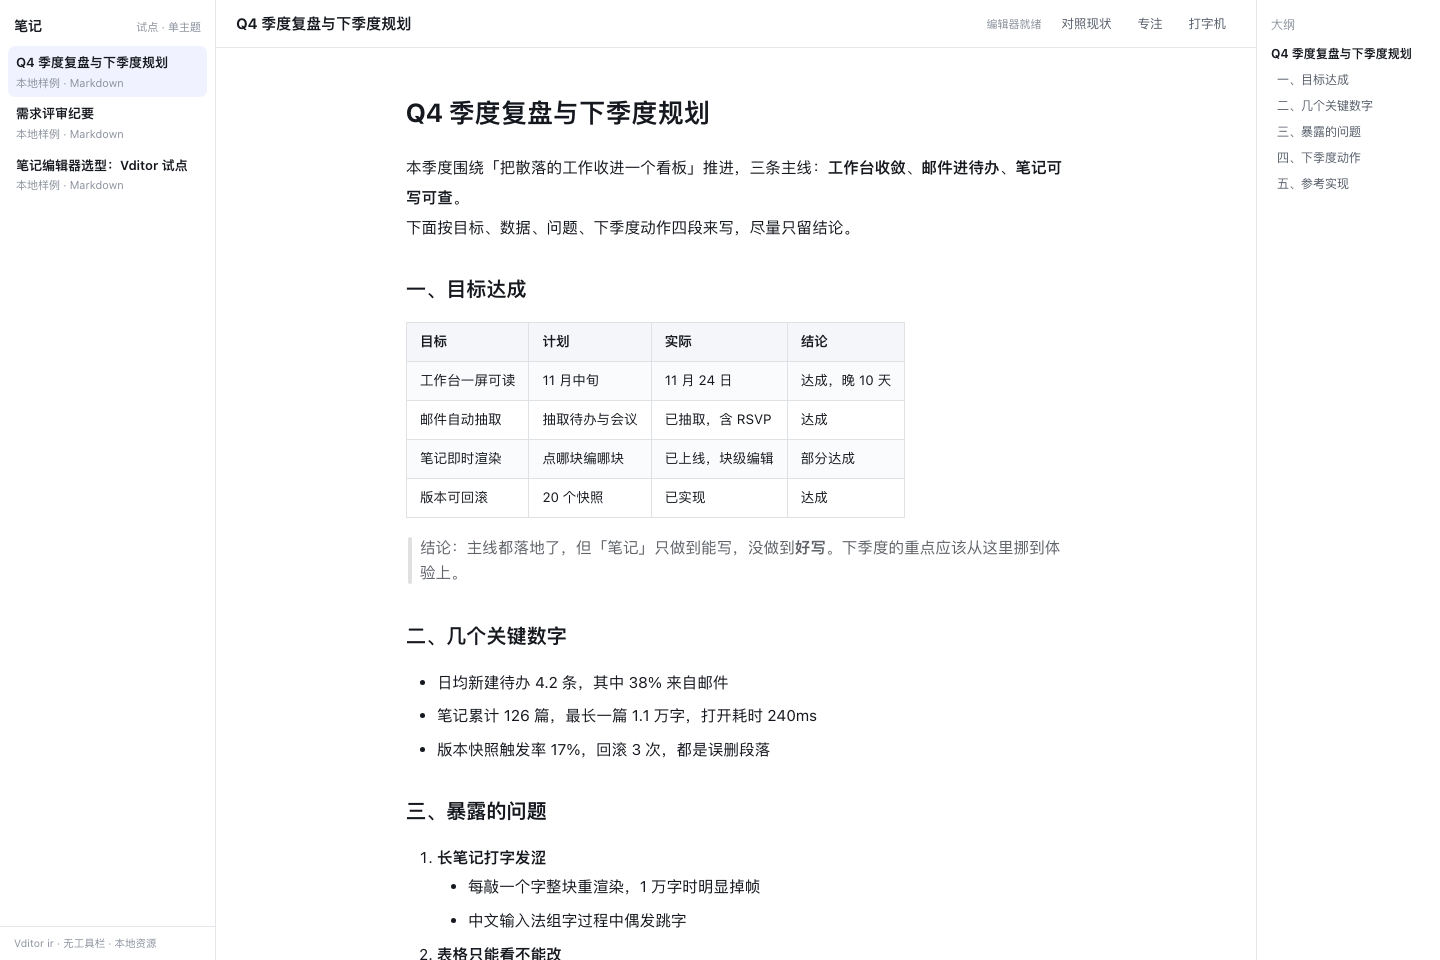
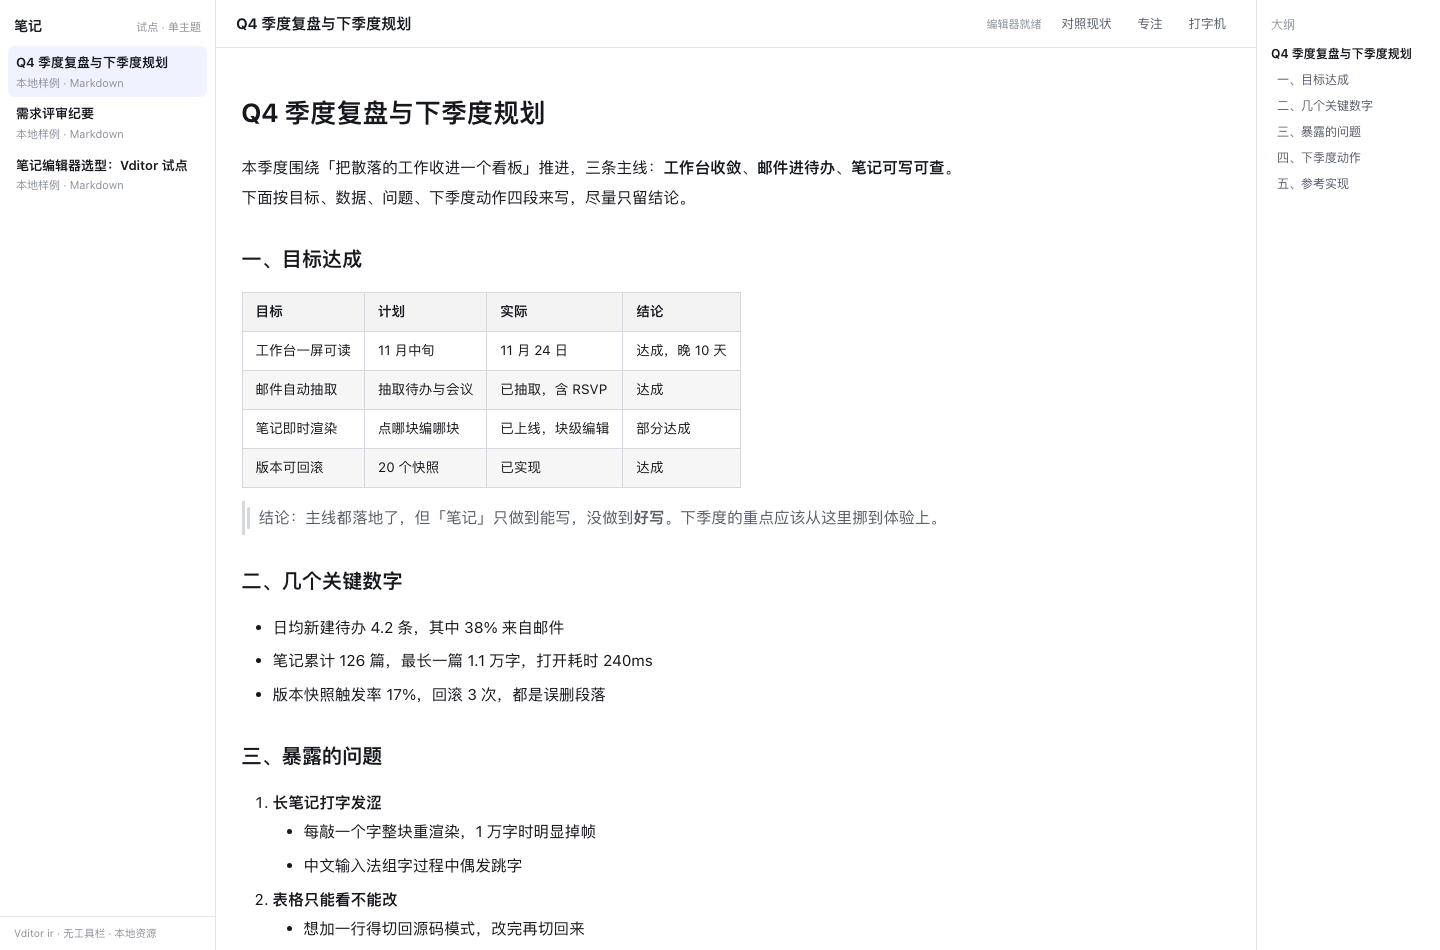
fix: 深色模式正文/表格/代码配色，v3.38.0

diff --git a/share-desktop/plugin/lib/client.js b/share-desktop/plugin/lib/client.js
@@ -2546,21 +2546,45 @@ window.__ModuleLoader__.load({
 			// 全屏时正文跟着窗口放大：窄屏保底 720，宽屏按 72vw 长，最多 1040；始终居中
 			"#tw-typora .vditor-ir{display:block!important;width:100%!important}",
 			"#tw-typora .vditor-ir>.vditor-reset{width:auto!important;max-width:clamp(720px,72vw,1040px)!important;margin:0 auto!important}",
-			"#tw-typora .vditor-reset{padding:16px 10px 120px!important;font-size:14.5px;line-height:1.9;word-break:break-word}",
+				"#tw-typora .vditor-reset{padding:16px 10px 120px!important;font-size:14.5px;line-height:1.9;word-break:break-word;font-family:" + FONT + "}",
 			// Vditor 在标题左侧挂 H1/H2 层级角标，还额外给标题描一条下边框；Typora 两样都没有
 			"#tw-typora .vditor-ir .vditor-reset>h1:before,#tw-typora .vditor-ir .vditor-reset>h2:before,#tw-typora .vditor-ir .vditor-reset>h3:before,#tw-typora .vditor-ir .vditor-reset>h4:before,#tw-typora .vditor-ir .vditor-reset>h5:before,#tw-typora .vditor-ir .vditor-reset>h6:before{content:none!important;display:none!important}",
 			"#tw-typora .vditor-ir .vditor-reset>h1,#tw-typora .vditor-ir .vditor-reset>h2,#tw-typora .vditor-ir .vditor-reset>h3,#tw-typora .vditor-ir .vditor-reset>h4,#tw-typora .vditor-ir .vditor-reset>h5,#tw-typora .vditor-ir .vditor-reset>h6{border:0!important}",
 			// 隐藏的源码也塞在 pre 里，别让它 inheriting 到可见的边框
 			"#tw-typora .vditor-ir .vditor-ir__marker,#tw-typora .vditor-ir .vditor-ir__marker--pre{border:0!important;background:none!important;padding:0!important;margin:0!important}",
-			"#tw-typora .vditor-ir__marker{color:var(--dsw-alias-label-tertiary,#9aa0aa)!important}",
+			"#tw-typora .vditor-ir__marker{color:var(--tw-muted,#8b919c)!important}",
+				"#tw-typora .vditor-ir pre.vditor-reset:empty::before{color:var(--tw-muted,#8b919c)!important}",
 			// 公式块：Typora 是无底色、无边框的裸排版，只在光标进入时露出 $$
 			"#tw-typora .vditor-ir .vditor-reset div[data-type="+"\"math-block\""+"]>pre.vditor-ir__preview{background:transparent!important;border:0!important;padding:10px 0!important;line-height:1.9}",
 			// 公式块里的空文本行会把行距撑开，行高归零后交给 preview 自己撑
 			"#tw-typora .vditor-ir .vditor-reset div[data-type="+"\"math-block\""+"]{line-height:0}",
 			"#tw-typora .vditor-ir .vditor-reset div[data-type="+"\"math-block\""+"] .katex-display{margin:0!important}",
+			// 深色模式：Vditor 的正文颜色来自它自己的"内容主题"（默认 light），跟宿主的深浅色无关，
+			// 于是深色下正文还是 #24292e 近黑、表格行还是 #fafbfc 白底——整篇几乎看不见。
+			// 这里不再依赖它的内容主题，正文一律改读插件的 --tw-* token，两种主题自动跟随。
+			"#tw-typora .vditor-reset{color:var(--tw-ink,#15181e)!important}",
+			"#tw-typora .vditor-reset h1,#tw-typora .vditor-reset h2,#tw-typora .vditor-reset h3,#tw-typora .vditor-reset h4,#tw-typora .vditor-reset h5,#tw-typora .vditor-reset h6,#tw-typora .vditor-reset strong,#tw-typora .vditor-reset b{color:var(--tw-ink,#15181e)!important}",
+			"#tw-typora .vditor-reset a,#tw-typora .vditor-ir__link{color:var(--tw-accent,#3370ff)!important}",
+			"#tw-typora .vditor-reset blockquote:not(.callout){color:var(--tw-ink-2,#565d69)!important}",
+			"#tw-typora .vditor-reset blockquote:not(.callout)::before{background-color:var(--tw-rule-2,#d5d8de)!important}",
+			"#tw-typora .vditor-reset hr{background-color:var(--tw-rule,#e4e6ea)!important}",
+			// 表格：行底、表头底、单元格描边全部换回 token，深色下不再出现白格格
+			"#tw-typora .vditor-reset table tr{background-color:transparent!important;border-top:1px solid var(--tw-rule-2,#d5d8de)!important}",
+			"#tw-typora .vditor-reset table tbody tr:nth-child(2n){background-color:color-mix(in srgb,var(--tw-ink,#15181e) 4%,transparent)!important}",
+			"#tw-typora .vditor-reset table td,#tw-typora .vditor-reset table th{border:1px solid var(--tw-rule-2,#d5d8de)!important}",
+			"#tw-typora .vditor-reset table th{background-color:color-mix(in srgb,var(--tw-ink,#15181e) 5%,transparent)!important}",
+			// 代码：行内底色与块底色都用文字色叠一层，深浅两边都成立；块里再交给 hljs 主题上色
+			"#tw-typora .vditor-reset code:not(.hljs):not(.highlight-chroma){color:var(--tw-ink,#15181e)!important;background-color:color-mix(in srgb,var(--tw-ink,#15181e) 7%,transparent)!important}",
+			"#tw-typora .vditor-reset pre{background-color:color-mix(in srgb,var(--tw-ink,#15181e) 5%,transparent)!important;border:1px solid var(--tw-rule,#e4e6ea)!important;border-radius:8px!important;padding:10px 12px!important}",
+			// 行内代码在 ir 下带 .hljs 类，hljs 主题会给它铺 #282c34；统一压回中性底，块内再透明
+			"#tw-typora .vditor-reset code.hljs{background-color:color-mix(in srgb,var(--tw-ink,#15181e) 8%,transparent)!important;color:var(--tw-ink,#15181e)!important;border-radius:4px;padding:2px 5px}",
+			"#tw-typora .vditor-reset pre>code,#tw-typora .vditor-reset pre>code.hljs{background:none!important;padding:0!important}",
+			"#tw-typora .vditor-reset kbd{color:var(--tw-ink,#15181e)!important;background-color:color-mix(in srgb,var(--tw-ink,#15181e) 8%,transparent)!important;border:1px solid var(--tw-rule,#e4e6ea)!important;box-shadow:none!important}",
 			// 任务列表复选框：跟插件里的 tw-check 同一个观感，不用系统原生小方块
-			"#tw-typora .vditor-ir .vditor-reset input[type="+"\"checkbox\""+"]{appearance:none;-webkit-appearance:none;width:14px;height:14px;margin:0 8px 0 0;border:1px solid var(--dsw-alias-border-l2,#d7dae1);border-radius:4px;background:transparent;vertical-align:-2px;cursor:pointer}",
+			"#tw-typora .vditor-ir .vditor-reset input[type="+"\"checkbox\""+"]{appearance:none;-webkit-appearance:none;width:14px;height:14px;margin:0 8px 0 0;border:1px solid var(--tw-rule-2,#d7dae1);border-radius:4px;background:transparent;vertical-align:-2px;cursor:pointer}",
 			"#tw-typora .vditor-ir .vditor-reset input[type="+"\"checkbox\""+"]:checked{background:var(--tw-accent,#3370ff);border-color:var(--tw-accent,#3370ff)}",
+			// 光标进到代码块时 Vditor 会给 pre 铺 --textarea-background-color（深色下是浅灰块），压掉
+			"#tw-typora .vditor-ir pre.vditor-reset:focus{background-color:color-mix(in srgb,var(--tw-ink,#15181e) 5%,transparent)!important}",
 			// 专注：只亮光标所在的那一块
 			"#tw-typora.tw-vd-focus .vditor-ir>.vditor-reset>*:not(.tw-active){opacity:.3}",
 			"#tw-typora .vditor-ir>.vditor-reset>*{transition:opacity .18s ease}"
@@ -2659,7 +2683,6 @@ window.__ModuleLoader__.load({
 							mode: "ir",
 							value: String(valueRef.current == null ? "" : valueRef.current),
 							height: "100%",
-							theme: dark ? "dark" : "classic",
 							icon: "ant",
 							toolbar: [],
 							counter: { enable: false },
@@ -2668,7 +2691,15 @@ window.__ModuleLoader__.load({
 							outline: { enable: false },
 							tab: "\t",
 							placeholder: "开始写…",
-							preview: { delay: 120, markdown: { sanitize: true, toc: false } },
+							// preview.theme.current 才是 Vditor 的"内容主题"（正文/表格/代码配色），
+							// theme 只管外壳；两者必须同步，否则深色下正文会按浅色那套排。
+							theme: dark ? "dark" : "classic",
+							preview: {
+								delay: 120,
+								theme: { current: dark ? "dark" : "light", path: VD_BASE + "/dist/css/content-theme" },
+								hljs: { style: dark ? "atom-one-dark" : "github", lineNumber: false },
+								markdown: { sanitize: true, toc: false }
+							},
 							input: (v) => { if (!pushRef.current && props.onChange) props.onChange(v); },
 							after: () => { if (alive) setReady(true); }
 						});

diff --git a/tidywork-plugin/lib/client.js b/tidywork-plugin/lib/client.js
@@ -2546,21 +2546,45 @@ window.__ModuleLoader__.load({
 			// 全屏时正文跟着窗口放大：窄屏保底 720，宽屏按 72vw 长，最多 1040；始终居中
 			"#tw-typora .vditor-ir{display:block!important;width:100%!important}",
 			"#tw-typora .vditor-ir>.vditor-reset{width:auto!important;max-width:clamp(720px,72vw,1040px)!important;margin:0 auto!important}",
-			"#tw-typora .vditor-reset{padding:16px 10px 120px!important;font-size:14.5px;line-height:1.9;word-break:break-word}",
+				"#tw-typora .vditor-reset{padding:16px 10px 120px!important;font-size:14.5px;line-height:1.9;word-break:break-word;font-family:" + FONT + "}",
 			// Vditor 在标题左侧挂 H1/H2 层级角标，还额外给标题描一条下边框；Typora 两样都没有
 			"#tw-typora .vditor-ir .vditor-reset>h1:before,#tw-typora .vditor-ir .vditor-reset>h2:before,#tw-typora .vditor-ir .vditor-reset>h3:before,#tw-typora .vditor-ir .vditor-reset>h4:before,#tw-typora .vditor-ir .vditor-reset>h5:before,#tw-typora .vditor-ir .vditor-reset>h6:before{content:none!important;display:none!important}",
 			"#tw-typora .vditor-ir .vditor-reset>h1,#tw-typora .vditor-ir .vditor-reset>h2,#tw-typora .vditor-ir .vditor-reset>h3,#tw-typora .vditor-ir .vditor-reset>h4,#tw-typora .vditor-ir .vditor-reset>h5,#tw-typora .vditor-ir .vditor-reset>h6{border:0!important}",
 			// 隐藏的源码也塞在 pre 里，别让它 inheriting 到可见的边框
 			"#tw-typora .vditor-ir .vditor-ir__marker,#tw-typora .vditor-ir .vditor-ir__marker--pre{border:0!important;background:none!important;padding:0!important;margin:0!important}",
-			"#tw-typora .vditor-ir__marker{color:var(--dsw-alias-label-tertiary,#9aa0aa)!important}",
+			"#tw-typora .vditor-ir__marker{color:var(--tw-muted,#8b919c)!important}",
+				"#tw-typora .vditor-ir pre.vditor-reset:empty::before{color:var(--tw-muted,#8b919c)!important}",
 			// 公式块：Typora 是无底色、无边框的裸排版，只在光标进入时露出 $$
 			"#tw-typora .vditor-ir .vditor-reset div[data-type="+"\"math-block\""+"]>pre.vditor-ir__preview{background:transparent!important;border:0!important;padding:10px 0!important;line-height:1.9}",
 			// 公式块里的空文本行会把行距撑开，行高归零后交给 preview 自己撑
 			"#tw-typora .vditor-ir .vditor-reset div[data-type="+"\"math-block\""+"]{line-height:0}",
 			"#tw-typora .vditor-ir .vditor-reset div[data-type="+"\"math-block\""+"] .katex-display{margin:0!important}",
+			// 深色模式：Vditor 的正文颜色来自它自己的"内容主题"（默认 light），跟宿主的深浅色无关，
+			// 于是深色下正文还是 #24292e 近黑、表格行还是 #fafbfc 白底——整篇几乎看不见。
+			// 这里不再依赖它的内容主题，正文一律改读插件的 --tw-* token，两种主题自动跟随。
+			"#tw-typora .vditor-reset{color:var(--tw-ink,#15181e)!important}",
+			"#tw-typora .vditor-reset h1,#tw-typora .vditor-reset h2,#tw-typora .vditor-reset h3,#tw-typora .vditor-reset h4,#tw-typora .vditor-reset h5,#tw-typora .vditor-reset h6,#tw-typora .vditor-reset strong,#tw-typora .vditor-reset b{color:var(--tw-ink,#15181e)!important}",
+			"#tw-typora .vditor-reset a,#tw-typora .vditor-ir__link{color:var(--tw-accent,#3370ff)!important}",
+			"#tw-typora .vditor-reset blockquote:not(.callout){color:var(--tw-ink-2,#565d69)!important}",
+			"#tw-typora .vditor-reset blockquote:not(.callout)::before{background-color:var(--tw-rule-2,#d5d8de)!important}",
+			"#tw-typora .vditor-reset hr{background-color:var(--tw-rule,#e4e6ea)!important}",
+			// 表格：行底、表头底、单元格描边全部换回 token，深色下不再出现白格格
+			"#tw-typora .vditor-reset table tr{background-color:transparent!important;border-top:1px solid var(--tw-rule-2,#d5d8de)!important}",
+			"#tw-typora .vditor-reset table tbody tr:nth-child(2n){background-color:color-mix(in srgb,var(--tw-ink,#15181e) 4%,transparent)!important}",
+			"#tw-typora .vditor-reset table td,#tw-typora .vditor-reset table th{border:1px solid var(--tw-rule-2,#d5d8de)!important}",
+			"#tw-typora .vditor-reset table th{background-color:color-mix(in srgb,var(--tw-ink,#15181e) 5%,transparent)!important}",
+			// 代码：行内底色与块底色都用文字色叠一层，深浅两边都成立；块里再交给 hljs 主题上色
+			"#tw-typora .vditor-reset code:not(.hljs):not(.highlight-chroma){color:var(--tw-ink,#15181e)!important;background-color:color-mix(in srgb,var(--tw-ink,#15181e) 7%,transparent)!important}",
+			"#tw-typora .vditor-reset pre{background-color:color-mix(in srgb,var(--tw-ink,#15181e) 5%,transparent)!important;border:1px solid var(--tw-rule,#e4e6ea)!important;border-radius:8px!important;padding:10px 12px!important}",
+			// 行内代码在 ir 下带 .hljs 类，hljs 主题会给它铺 #282c34；统一压回中性底，块内再透明
+			"#tw-typora .vditor-reset code.hljs{background-color:color-mix(in srgb,var(--tw-ink,#15181e) 8%,transparent)!important;color:var(--tw-ink,#15181e)!important;border-radius:4px;padding:2px 5px}",
+			"#tw-typora .vditor-reset pre>code,#tw-typora .vditor-reset pre>code.hljs{background:none!important;padding:0!important}",
+			"#tw-typora .vditor-reset kbd{color:var(--tw-ink,#15181e)!important;background-color:color-mix(in srgb,var(--tw-ink,#15181e) 8%,transparent)!important;border:1px solid var(--tw-rule,#e4e6ea)!important;box-shadow:none!important}",
 			// 任务列表复选框：跟插件里的 tw-check 同一个观感，不用系统原生小方块
-			"#tw-typora .vditor-ir .vditor-reset input[type="+"\"checkbox\""+"]{appearance:none;-webkit-appearance:none;width:14px;height:14px;margin:0 8px 0 0;border:1px solid var(--dsw-alias-border-l2,#d7dae1);border-radius:4px;background:transparent;vertical-align:-2px;cursor:pointer}",
+			"#tw-typora .vditor-ir .vditor-reset input[type="+"\"checkbox\""+"]{appearance:none;-webkit-appearance:none;width:14px;height:14px;margin:0 8px 0 0;border:1px solid var(--tw-rule-2,#d7dae1);border-radius:4px;background:transparent;vertical-align:-2px;cursor:pointer}",
 			"#tw-typora .vditor-ir .vditor-reset input[type="+"\"checkbox\""+"]:checked{background:var(--tw-accent,#3370ff);border-color:var(--tw-accent,#3370ff)}",
+			// 光标进到代码块时 Vditor 会给 pre 铺 --textarea-background-color（深色下是浅灰块），压掉
+			"#tw-typora .vditor-ir pre.vditor-reset:focus{background-color:color-mix(in srgb,var(--tw-ink,#15181e) 5%,transparent)!important}",
 			// 专注：只亮光标所在的那一块
 			"#tw-typora.tw-vd-focus .vditor-ir>.vditor-reset>*:not(.tw-active){opacity:.3}",
 			"#tw-typora .vditor-ir>.vditor-reset>*{transition:opacity .18s ease}"
@@ -2659,7 +2683,6 @@ window.__ModuleLoader__.load({
 							mode: "ir",
 							value: String(valueRef.current == null ? "" : valueRef.current),
 							height: "100%",
-							theme: dark ? "dark" : "classic",
 							icon: "ant",
 							toolbar: [],
 							counter: { enable: false },
@@ -2668,7 +2691,15 @@ window.__ModuleLoader__.load({
 							outline: { enable: false },
 							tab: "\t",
 							placeholder: "开始写…",
-							preview: { delay: 120, markdown: { sanitize: true, toc: false } },
+							// preview.theme.current 才是 Vditor 的"内容主题"（正文/表格/代码配色），
+							// theme 只管外壳；两者必须同步，否则深色下正文会按浅色那套排。
+							theme: dark ? "dark" : "classic",
+							preview: {
+								delay: 120,
+								theme: { current: dark ? "dark" : "light", path: VD_BASE + "/dist/css/content-theme" },
+								hljs: { style: dark ? "atom-one-dark" : "github", lineNumber: false },
+								markdown: { sanitize: true, toc: false }
+							},
 							input: (v) => { if (!pushRef.current && props.onChange) props.onChange(v); },
 							after: () => { if (alive) setReady(true); }
 						});

diff --git a/docs/notes-editor-demo/demo.css b/docs/notes-editor-demo/demo.css
@@ -12,9 +12,24 @@
   --tw-accent: #2f5bff;
   --tw-accent-soft: rgba(47, 91, 255, 0.07);
   --tw-wash: #eef1f8;
+  --tw-rule-2: #d5d8de;
   --font-ui: -apple-system, BlinkMacSystemFont, "PingFang SC", "Microsoft YaHei", sans-serif;
   --font-body: -apple-system, BlinkMacSystemFont, "PingFang SC", "Songti SC", serif;
   --font-mono: ui-monospace, SFMono-Regular, Menlo, Consolas, monospace;
+}
+
+/* 深色：和插件里的 --tw-* 两套值保持一致，body[data-theme=dark] 由 ?theme=dark 打开 */
+body[data-theme="dark"] {
+  --tw-paper: #121317;
+  --tw-panel: #17181c;
+  --tw-rule: #2a2c33;
+  --tw-rule-2: #3a3d45;
+  --tw-ink: #eceef2;
+  --tw-ink-2: #a7adba;
+  --tw-muted: #767c88;
+  --tw-accent: #8aa6ff;
+  --tw-accent-soft: rgba(138, 166, 255, 0.14);
+  --tw-wash: #1d1f25;
 }
 
 * { box-sizing: border-box; }
@@ -283,12 +298,12 @@ html, body {
 .vditor-reset code:not(.language-*) {
   font-family: var(--font-mono);
   font-size: 12.5px;
-  background: #f2f3f7;
+  background: color-mix(in srgb, var(--tw-ink) 7%, transparent);
   padding: 2px 5px;
   border-radius: 4px;
 }
 .vditor-reset pre {
-  background: #f5f6f9 !important;
+  background: color-mix(in srgb, var(--tw-ink) 5%, transparent) !important;
   border: 1px solid var(--tw-rule);
   border-radius: 9px;
   margin: 1em 0;
@@ -305,22 +320,22 @@ html, body {
   font-family: var(--font-mono);
   font-size: 12.5px;
   line-height: 1.72;
-  color: #2a2f3a;
+  color: var(--tw-ink);
 }
 .vditor-reset table { border-collapse: collapse; font-size: 13.5px; margin: 1em 0; }
 .vditor-reset th, .vditor-reset td { border: 1px solid var(--tw-rule); padding: 6px 10px; text-align: left; vertical-align: top; }
-.vditor-reset th { background: #f5f6f9; font-weight: 600; font-family: var(--font-ui); }
+.vditor-reset th { background: color-mix(in srgb, var(--tw-ink) 5%, transparent); font-weight: 600; font-family: var(--font-ui); }
 .vditor-reset blockquote {
   margin: 1.1em 0;
   padding: 2px 0 2px 14px;
-  border-left: 3px solid #dfe3ea;
+  border-left: 3px solid var(--tw-rule-2) !important;
   color: var(--tw-ink-2);
 }
 .vditor-reset hr { border: 0; border-top: 1px solid var(--tw-rule); margin: 1.8em 0; }
 
 /* 光标所在块露出的源码，弱化到"提示"级别，不抢正文 */
-.vditor-ir__marker { color: #b3b9c4 !important; }
-.vditor-ir__marker--heading { color: #c8cdd6 !important; }
+.vditor-ir__marker { color: var(--tw-muted) !important; }
+.vditor-ir__marker--heading { color: var(--tw-ink-2) !important; }
 
 /* ---------- 专注模式：只亮当前块 ---------- */
 .tw-focus-on .vditor-ir > .vditor-reset > *:not(.tw-active) {
@@ -372,4 +387,38 @@ html, body {
 .vditor-ir > .vditor-reset,
 .vditor-ir .vditor-reset {
   background-color: transparent !important;
+}
+
+/* ---------- 内容主题兜底：Vditor 的 dark.css / light.css 会盖掉上面的 token 规则 ---------- */
+#editor .vditor-reset code:not(.hljs):not(.highlight-chroma) {
+  background: color-mix(in srgb, var(--tw-ink) 7%, transparent) !important;
+  color: var(--tw-ink) !important;
+}
+#editor .vditor-reset table tr {
+  background-color: transparent !important;
+  border-top: 1px solid var(--tw-rule-2) !important;
+}
+#editor .vditor-reset table tbody tr:nth-child(2n) {
+  background-color: color-mix(in srgb, var(--tw-ink) 4%, transparent) !important;
+}
+#editor .vditor-reset table td,
+#editor .vditor-reset table th {
+  border: 1px solid var(--tw-rule-2) !important;
+}
+#editor .vditor-reset table th {
+  background-color: color-mix(in srgb, var(--tw-ink) 5%, transparent) !important;
+}
+#editor .vditor-reset blockquote:not(.callout) { color: var(--tw-ink-2) !important; }
+#editor .vditor-reset blockquote:not(.callout)::before { background-color: var(--tw-rule-2) !important; }
+#editor .vditor-reset hr { background-color: var(--tw-rule-2) !important; }
+#editor .vditor-reset code.hljs {
+  background-color: color-mix(in srgb, var(--tw-ink) 8%, transparent) !important;
+  color: var(--tw-ink) !important;
+  border-radius: 4px;
+  padding: 2px 5px;
+}
+#editor .vditor-reset pre > code,
+#editor .vditor-reset pre > code.hljs {
+  background: none !important;
+  padding: 0 !important;
 }

diff --git a/docs/notes-editor-demo/demo.js b/docs/notes-editor-demo/demo.js
@@ -9,6 +9,8 @@ const DOCS = [
   { id: "editor-choice", title: "笔记编辑器选型：Vditor 试点", file: "./samples/editor-choice.md" },
 ];
 
+const qs = new URLSearchParams(location.search);
+const darkMode = qs.get("theme") === "dark";
 const $ = (id) => document.getElementById(id);
 const shell = document.querySelector(".tw-shell");
 const store = {
@@ -157,7 +159,7 @@ async function applyDoc(md) {
       mode: "ir",
       value: md,
       height: "100%",
-      theme: "classic",
+      theme: darkMode ? "dark" : "classic",
       icon: "ant",
       toolbar: [],
       counter: { enable: false },
@@ -166,7 +168,12 @@ async function applyDoc(md) {
       outline: { enable: false },
       tab: "\t",
       placeholder: "开始写…",
-      preview: { delay: 120, markdown: { sanitize: true, toc: false } },
+      preview: {
+        delay: 120,
+        theme: { current: darkMode ? "dark" : "light", path: "./vendor/vditor/dist/css/content-theme" },
+        hljs: { style: darkMode ? "atom-one-dark" : "github", lineNumber: false },
+        markdown: { sanitize: true, toc: false },
+      },
       input: () => { scheduleSave(); syncLegacy(); renderOutline(vditor ? vditor.getValue() : ""); },
       after: () => { setStatus("编辑器就绪"); markFocus(); },
     });
@@ -217,12 +224,12 @@ DOCS.forEach((doc) => {
   $("docList").appendChild(b);
 });
 
-/* 截图 / 演示用：?compare=1&focus=1&doc=editor-choice */
-const qs = new URLSearchParams(location.search);
+/* 截图 / 演示用：?compare=1&focus=1&doc=editor-choice&theme=dark */
 const first = (qs.get("doc") && DOCS.find((d) => d.id === qs.get("doc"))) || DOCS[0];
 
+if (darkMode) document.body.setAttribute("data-theme", "dark");
 openDoc(first).then(() => {
-  if (qs.get("paper") === "1") document.body.style.background = "#f7f8fa";
+  if (qs.get("paper") === "1" && !darkMode) document.body.style.background = "#f7f8fa";
   if (qs.get("compare") === "1") $("btnCompare").click();
   if (qs.get("focus") === "1") $("btnFocus").click();
   if (qs.get("scroll")) {

diff --git a/docs/CHANGELOG.md b/docs/CHANGELOG.md
@@ -2,6 +2,13 @@
 
 版本号同步维护在两处：`tidywork-plugin/package.json` 与 `share-desktop/VERSION`。
 
+## v3.38.0 · 深色模式修正
+
+- 根因：Vditor 的正文配色走它自己的"内容主题"（默认 light），跟宿主的深浅色无关。深色下正文还是 `#24292e` 近黑、表格行还是 `#fafbfc` 白底、代码还是浅色 hljs，整篇几乎看不见。
+- 修法：正文、标题、链接、引用、表格（行底/表头/描边）、代码块、hr、kbd 一律改读插件的 `--tw-*` token，两种主题自动跟随；`preview.theme.current` 与 `theme` 同步，代码高亮深色下换 `atom-one-dark`，行内代码压回中性底，光标进代码块不再铺浅色底。
+- 正文排版字体改为插件自己的 UI 字体，跟顶栏/侧栏统一；表格描边改用 `--tw-rule-2`，深色下不至于糊成一片。
+- demo 新增 `?theme=dark` 与深色 `--tw-*` 一套值，并补 `dark-mode.png` / `dark-code.png` 两张验收截图——之前只验浅色，深色问题才漏到这里。
+
 ## v3.37.2 · 正文列宽随窗口放大
 
 - 实时编辑器原来固定 720px，全屏后右侧留出一大片空；改成 `clamp(720px, 72vw, 1040px)`，窄屏保底、宽屏跟着窗口长、上限 1040，并始终居中。

diff --git a/docs/notes-editor-demo/README.md b/docs/notes-editor-demo/README.md
@@ -20,6 +20,7 @@ python3 -m http.server 8765
 - **打字机**：光标保持在视口中线附近滚动。
 - 左栏三篇样例覆盖了标题 / 表格 / 嵌套列表 / 待办 / 代码块 / 公式，用来比"谁漏渲染"。
 - 加 `?paper=1` 换成插件里的纸色底（默认白底会把"白底板"这类问题藏住）；加 `?doc=<id>` 指定样例。
+- 加 `?theme=dark` 切到插件深色那套 `--tw-*`（配 `?paper=1` 无效），用来查深色对比度。
 
 `vd-api-test.html` 是接口自检：`getValue` / `setValue` / `insertValue` / `destroy` / 换深浅色重建，
 结果直接写在页面顶部，用来确认 Vditor 的这几个调用在这个版本上是可用的。
